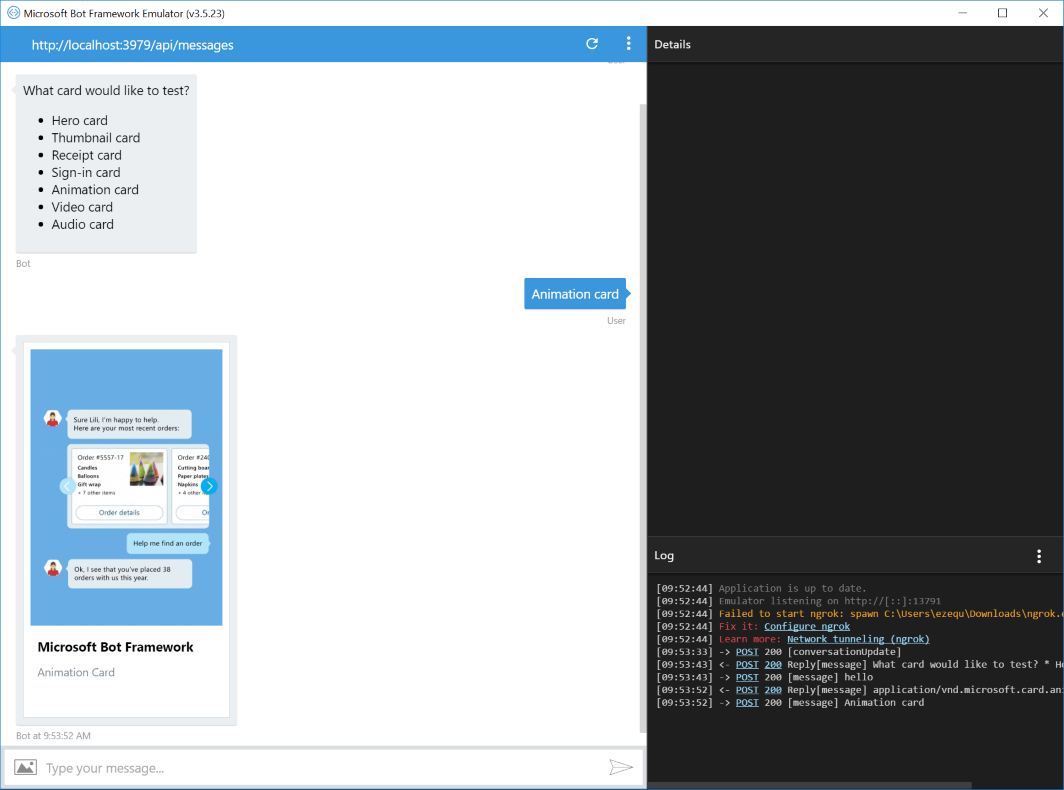
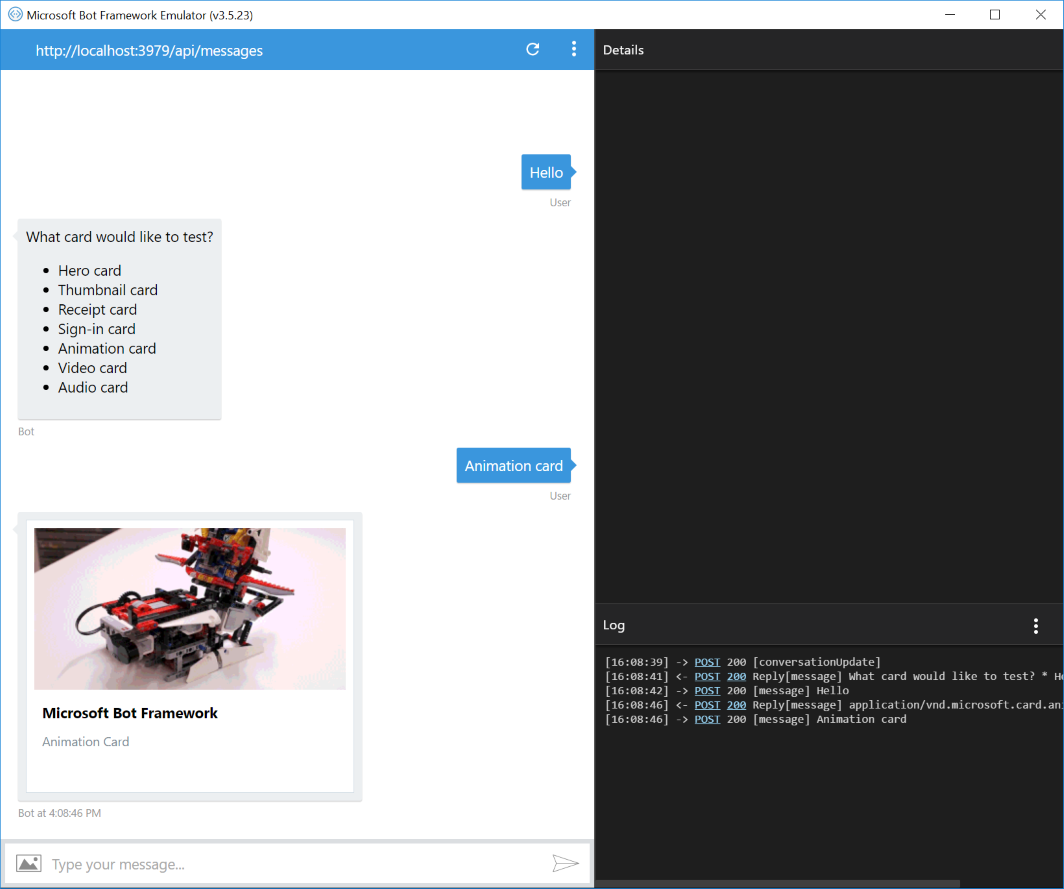
Update cards and add channel's screenshots

diff --git a/CSharp/cards-RichCards/CardsDialog.cs b/CSharp/cards-RichCards/CardsDialog.cs
@@ -142,17 +142,19 @@
 
         private static Attachment GetAnimationCard()
         {
-            var currentUrl = HttpContext.Current.Request.Url;
-
             var animationCard = new AnimationCard
             {
                 Title = "Microsoft Bot Framework",
                 Subtitle = "Animation Card",
-                Media = new List<MediaUrl>()
+                Image = new ThumbnailUrl
+                {
+                    Url = "https://docs.botframework.com/en-us/images/faq-overview/botframework_overview_july.png"
+                },
+                Media = new List<MediaUrl>
                 {
                     new MediaUrl()
                     {
-                        Url = new UriBuilder(currentUrl.Scheme, currentUrl.Host, currentUrl.Port, "/images/botframework.gif").ToString()
+                        Url = "http://i.giphy.com/Ki55RUbOV5njy.gif"
                     }
                 }
             };
@@ -164,23 +166,27 @@
         {
             var videoCard = new VideoCard
             {
-                Title = "Microsoft Bot Framework and how we created the Azure Bot",
-                Subtitle = "by Thiago Almeida",
-                Text = "At Microsoft, we have first-hand experience writing bots and building artificial intelligence systems, so we’ve shared our services and tools so you can use them to add conversations to your own products. In this session we will cover the Microsoft Bot Framework and it's three components: the Microsoft Cognitive Services, the Bot Builder SDK, and the Bot Connector. We will also show the code and details about the Azure Bot and how it was built.",
-                Media = new List<MediaUrl>()
+                Title = "Big Buck Bunny",
+                Subtitle = "by the Blender Institute",
+                Text = "Big Buck Bunny (code-named Peach) is a short computer-animated comedy film by the Blender Institute, part of the Blender Foundation. Like the foundation's previous film Elephants Dream, the film was made using Blender, a free software application for animation made by the same foundation. It was released as an open-source film under Creative Commons License Attribution 3.0.",
+                Image = new ThumbnailUrl
+                {
+                    Url = "https://upload.wikimedia.org/wikipedia/commons/thumb/c/c5/Big_buck_bunny_poster_big.jpg/220px-Big_buck_bunny_poster_big.jpg"
+                },
+                Media = new List<MediaUrl>
                 {
                     new MediaUrl()
                     {
-                        Url = "http://video.ch9.ms/ch9/15ec/8933d06d-a6cd-460b-8a52-245ab52515ec/BotFramework_mid.mp4"
+                        Url = "http://download.blender.org/peach/bigbuckbunny_movies/BigBuckBunny_320x180.mp4"  
                     }
                 },
-                Buttons = new List<CardAction>()
+                Buttons = new List<CardAction>
                 {
                     new CardAction()
                     {
-                        Title = "See more in Channel9",
+                        Title = "Learn More",
                         Type = ActionTypes.OpenUrl,
-                        Value = "https://channel9.msdn.com/events/TechDays/Techdays-2016-The-Netherlands/Microsoft-Bot-Framework-and-how-we-created-the-Azure-Bot"
+                        Value = "https://peach.blender.org/"
                     }
                 }
             };
@@ -192,23 +198,27 @@
         {
             var audioCard = new AudioCard
             {
-                Title = "Introduction to the Microsoft Bot Framework",
-                Subtitle = "by Thiago Almeida",
-                Text = "Bots are increasingly popular and useful in many scenarios. In this session you will learn what options you have and how to get started building Bots using the Microsoft Bot Framework and other technologies such as LUIS.",
-                Media = new List<MediaUrl>()
+                Title = "I am your father",
+                Subtitle = "Star Wars: Episode V - The Empire Strikes Back",
+                Text = "The Empire Strikes Back (also known as Star Wars: Episode V – The Empire Strikes Back) is a 1980 American epic space opera film directed by Irvin Kershner. Leigh Brackett and Lawrence Kasdan wrote the screenplay, with George Lucas writing the film's story and serving as executive producer. The second installment in the original Star Wars trilogy, it was produced by Gary Kurtz for Lucasfilm Ltd. and stars Mark Hamill, Harrison Ford, Carrie Fisher, Billy Dee Williams, Anthony Daniels, David Prowse, Kenny Baker, Peter Mayhew and Frank Oz.",
+                Image = new ThumbnailUrl
+                {
+                    Url = "https://upload.wikimedia.org/wikipedia/en/3/3c/SW_-_Empire_Strikes_Back.jpg"
+                },
+                Media = new List<MediaUrl>
                 {
                     new MediaUrl()
                     {
-                        Url = "http://video.ch9.ms/ch9/abcc/d1e3ab3f-2d06-4c62-92d1-56c36a9cabcc/IntroBot.mp3"
+                        Url = "http://www.wavlist.com/movies/004/father.wav"
                     }
                 },
-                Buttons = new List<CardAction>()
+                Buttons = new List<CardAction>
                 {
                     new CardAction()
                     {
-                        Title = "See more in Channel9",
+                        Title = "Read More",
                         Type = ActionTypes.OpenUrl,
-                        Value = "https://channel9.msdn.com/events/TechDays/Techdays-2016-The-Netherlands/Introduction-to-the-Microsoft-Bot-Framework"
+                        Value = "https://en.wikipedia.org/wiki/The_Empire_Strikes_Back"
                     }
                 }
             };

diff --git a/CSharp/cards-RichCards/README.md b/CSharp/cards-RichCards/README.md
@@ -121,22 +121,24 @@ private static Attachment GetSigninCard()
 ````
 
 #### Animation Card
-The Animation card is a card that’s capable of playing animated GIFs or short videos. Check out the `GetAnimationCard` method in the [CardsDialog](CardsDialog.cs#L143-L161) class for an Animation Card sample.
+The Animation card is a card that’s capable of playing animated GIFs or short videos. Check out the `GetAnimationCard` method in the [CardsDialog](CardsDialog.cs#L143-L163) class for an Animation Card sample.
 
 ````C#
 private static Attachment GetAnimationCard()
 {
-    var currentUrl = HttpContext.Current.Request.Url;
-
     var animationCard = new AnimationCard
     {
         Title = "Microsoft Bot Framework",
         Subtitle = "Animation Card",
-        Media = new List<MediaUrl>()
+        Image = new ThumbnailUrl
+        {
+            Url = "https://docs.botframework.com/en-us/images/faq-overview/botframework_overview_july.png"
+        },
+        Media = new List<MediaUrl>
         {
             new MediaUrl()
             {
-                Url = new UriBuilder(currentUrl.Scheme, currentUrl.Host, currentUrl.Port, "/images/botframework.gif").ToString()
+                Url = "http://i.giphy.com/Ki55RUbOV5njy.gif"
             }
         }
     };
@@ -145,31 +147,37 @@ private static Attachment GetAnimationCard()
 }
 ````
 
+> Note: At the time of writing this sample, Skype requires the Animation card to have a Thumbnail Url.
+
 #### Video Card
-The Video card is a card that’s capable of playing videos. Check out the `GetVideoCard` method in the [CardsDialog](CardsDialog.cs#L163-L189) class for a Video Card sample.
+The Video card is a card that’s capable of playing videos. Check out the `GetVideoCard` method in the [CardsDialog](CardsDialog.cs#L165-L195) class for a Video Card sample.
 
 ````C#
 private static Attachment GetVideoCard()
 {
     var videoCard = new VideoCard
     {
-        Title = "Microsoft Bot Framework and how we created the Azure Bot",
-        Subtitle = "by Thiago Almeida",
-        Text = "At Microsoft, we have first-hand experience writing bots and building artificial intelligence systems, so we’ve shared our services and tools so you can use them to add conversations to your own products. In this session we will cover the Microsoft Bot Framework and it's three components: the Microsoft Cognitive Services, the Bot Builder SDK, and the Bot Connector. We will also show the code and details about the Azure Bot and how it was built.",
-        Media = new List<MediaUrl>()
+        Title = "Big Buck Bunny",
+        Subtitle = "by the Blender Institute",
+        Text = "Big Buck Bunny (code-named Peach) is a short computer-animated comedy film by the Blender Institute, part of the Blender Foundation. Like the foundation's previous film Elephants Dream, the film was made using Blender, a free software application for animation made by the same foundation. It was released as an open-source film under Creative Commons License Attribution 3.0.",
+        Image = new ThumbnailUrl
+        {
+            Url = "https://upload.wikimedia.org/wikipedia/commons/thumb/c/c5/Big_buck_bunny_poster_big.jpg/220px-Big_buck_bunny_poster_big.jpg"
+        },
+        Media = new List<MediaUrl>
         {
             new MediaUrl()
             {
-                Url = "http://video.ch9.ms/ch9/15ec/8933d06d-a6cd-460b-8a52-245ab52515ec/BotFramework_mid.mp4"
+                Url = "http://download.blender.org/peach/bigbuckbunny_movies/BigBuckBunny_320x180.mp4"  
             }
         },
-        Buttons = new List<CardAction>()
+        Buttons = new List<CardAction>
         {
             new CardAction()
             {
-                Title = "See more in Channel9",
+                Title = "Learn More",
                 Type = ActionTypes.OpenUrl,
-                Value = "https://channel9.msdn.com/events/TechDays/Techdays-2016-The-Netherlands/Microsoft-Bot-Framework-and-how-we-created-the-Azure-Bot"
+                Value = "https://peach.blender.org/"
             }
         }
     };
@@ -178,31 +186,37 @@ private static Attachment GetVideoCard()
 }
 ````
 
+> Note: At the time of writing this sample, Skype requires the Video card to have a Thumbnail Url.
+
 #### Audio Card
-The Audio card is a card that’s capable of playing an audio file. Check out the `GetAudioCard` method in the [CardsDialog](CardsDialog.cs#L191-L217) class for an Audio Card sample.
+The Audio card is a card that’s capable of playing an audio file. Check out the `GetAudioCard` method in the [CardsDialog](CardsDialog.cs#L197-L227) class for an Audio Card sample.
 
 ````C#
 private static Attachment GetAudioCard()
 {
     var audioCard = new AudioCard
     {
-        Title = "Introduction to the Microsoft Bot Framework",
-        Subtitle = "by Thiago Almeida",
-        Text = "Bots are increasingly popular and useful in many scenarios. In this session you will learn what options you have and how to get started building Bots using the Microsoft Bot Framework and other technologies such as LUIS.",
-        Media = new List<MediaUrl>()
+        Title = "I am your father",
+        Subtitle = "Star Wars: Episode V - The Empire Strikes Back",
+        Text = "The Empire Strikes Back (also known as Star Wars: Episode V – The Empire Strikes Back) is a 1980 American epic space opera film directed by Irvin Kershner. Leigh Brackett and Lawrence Kasdan wrote the screenplay, with George Lucas writing the film's story and serving as executive producer. The second installment in the original Star Wars trilogy, it was produced by Gary Kurtz for Lucasfilm Ltd. and stars Mark Hamill, Harrison Ford, Carrie Fisher, Billy Dee Williams, Anthony Daniels, David Prowse, Kenny Baker, Peter Mayhew and Frank Oz.",
+        Image = new ThumbnailUrl
+        {
+            Url = "https://upload.wikimedia.org/wikipedia/en/3/3c/SW_-_Empire_Strikes_Back.jpg"
+        },
+        Media = new List<MediaUrl>
         {
             new MediaUrl()
             {
-                Url = "http://video.ch9.ms/ch9/abcc/d1e3ab3f-2d06-4c62-92d1-56c36a9cabcc/IntroBot.mp3"
+                Url = "http://www.wavlist.com/movies/004/father.wav"
             }
         },
-        Buttons = new List<CardAction>()
+        Buttons = new List<CardAction>
         {
             new CardAction()
             {
-                Title = "See more in Channel9",
+                Title = "Read More",
                 Type = ActionTypes.OpenUrl,
-                Value = "https://channel9.msdn.com/events/TechDays/Techdays-2016-The-Netherlands/Introduction-to-the-Microsoft-Bot-Framework"
+                Value = "https://en.wikipedia.org/wiki/The_Empire_Strikes_Back"
             }
         }
     };
@@ -210,6 +224,8 @@ private static Attachment GetAudioCard()
     return audioCard.ToAttachment();
 }
 ````
+
+> Note: At the time of writing this sample, Skype requires the Audio card to have a Thumbnail Url.
 
 ### Outcome
 
@@ -271,7 +287,7 @@ To get more information about how to get started in Bot Builder for .NET and Att
 > 
 > The Bot Framework does its best to support the reuse of your Bot in as many channels as you want. However, due to the very nature of some of these channels, some features are not fully portable.
 > 
-> The features used in this sample are fully supported in the following channels:
+> The Hero card, Thumbnail card, Receipt card and Sign-in card used in this sample are fully supported in the following channels:
 > - Skype
 > - Facebook
 > - Telegram
@@ -286,3 +302,7 @@ To get more information about how to get started in Bot Builder for .NET and Att
 > 
 > On the other hand, they are not supported and the sample won't work as expected in the following channel:
 > - SMS
+>
+> The Animation card, Video card and Audio card used in this sample are fully supported in the following channels:
+> - Skype
+> - Facebook
